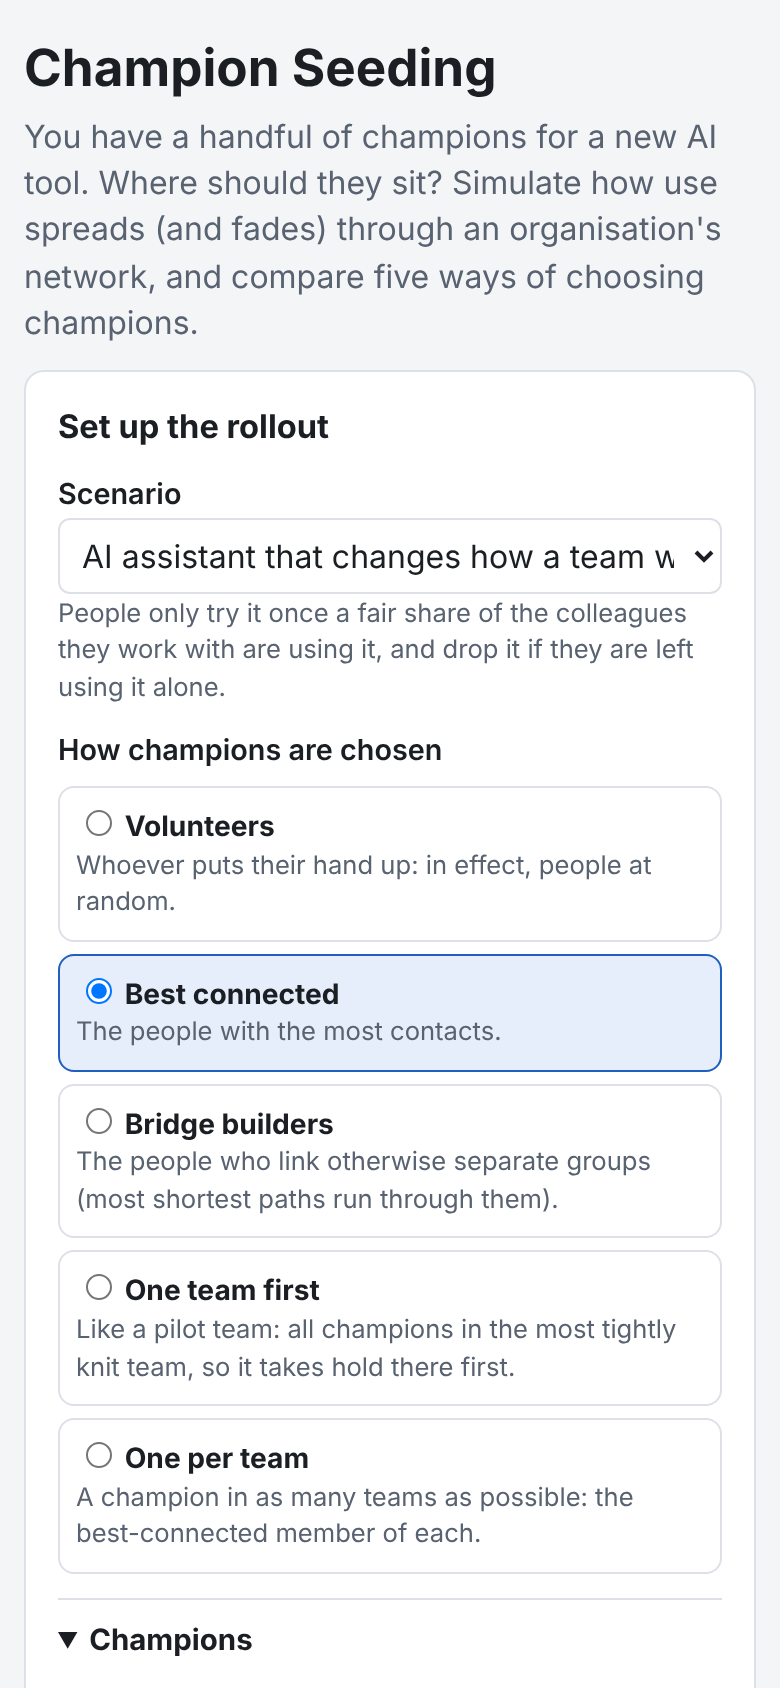
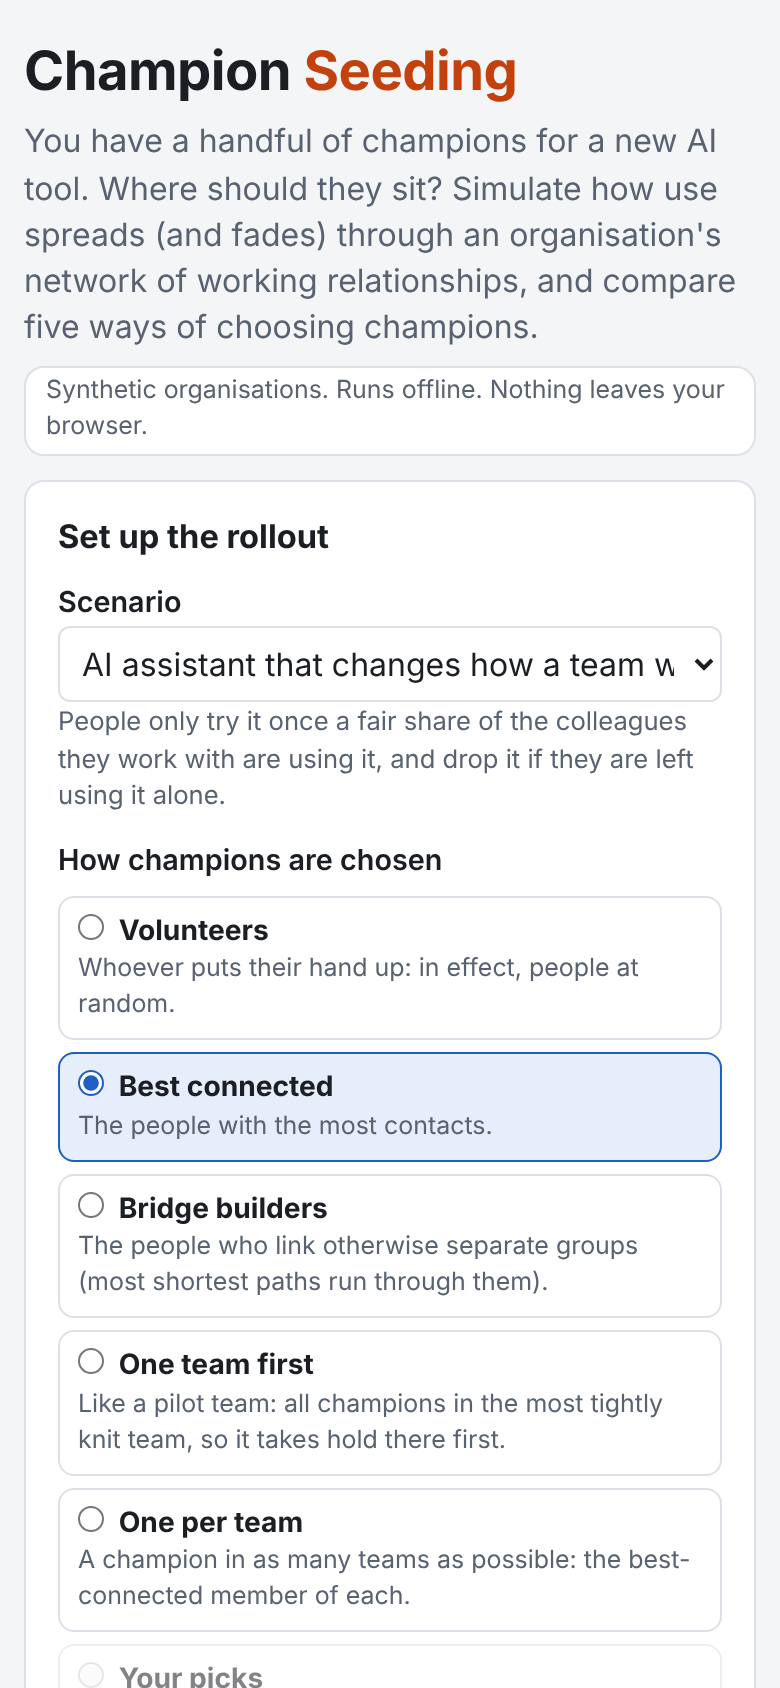
Loop 3: interface polish with sticky controls, fitted network view and team outlines, empty states, phone layouts, error state and model notes

Changed region(s): [[0.0308, 0.0308, 0.9538, 1.0], [0.8923, 0.3081, 0.9231, 0.3389]]

diff --git a/app/index.html b/app/index.html
@@ -22,12 +22,16 @@
   }
   * { box-sizing: border-box; }
   body { margin: 0; font-family: system-ui, -apple-system, "Segoe UI", Roboto, "Helvetica Neue", Arial, sans-serif; background: var(--bg); color: var(--ink); line-height: 1.45; }
-  header { padding: 20px 24px 6px; }
-  header h1 { margin: 0; font-size: 1.6rem; }
+  :focus-visible { outline: 3px solid var(--accent); outline-offset: 2px; }
+  header { padding: 22px 24px 6px; display: flex; flex-wrap: wrap; align-items: flex-end; justify-content: space-between; gap: 8px 24px; }
+  header h1 { margin: 0; font-size: 1.7rem; letter-spacing: -0.01em; }
+  header h1 span { color: var(--champion); }
   header p { margin: 4px 0 0; color: var(--muted); max-width: 72ch; }
+  .chip { font-size: 0.78rem; color: var(--muted); border: 1px solid var(--line); border-radius: 999px; padding: 3px 10px; background: var(--card); white-space: nowrap; }
   .layout { display: grid; grid-template-columns: 330px 1fr; gap: 18px; padding: 12px 24px 24px; align-items: start; }
   .layout > * { min-width: 0; }
   .card { background: var(--card); border: 1px solid var(--line); border-radius: var(--radius); padding: 16px; }
+  .controls { position: sticky; top: 12px; max-height: calc(100vh - 24px); overflow-y: auto; }
   h2 { font-size: 1.02rem; margin: 0 0 8px; }
   .control { margin: 12px 0; }
   .control label { display: flex; justify-content: space-between; gap: 8px; font-size: 0.9rem; font-weight: 600; }
@@ -38,12 +42,16 @@
   fieldset { border: 0; padding: 0; margin: 12px 0; min-width: 0; }
   legend { font-weight: 600; font-size: 0.9rem; margin-bottom: 6px; padding: 0; }
   .strategies { display: grid; gap: 6px; }
-  .strategies label { border: 1px solid var(--line); border-radius: 8px; padding: 8px; font-size: 0.8rem; color: var(--muted); cursor: pointer; display: block; }
+  .strategies label { border: 1px solid var(--line); border-radius: 8px; padding: 7px 9px; font-size: 0.78rem; color: var(--muted); cursor: pointer; display: block; }
+  .strategies input { accent-color: var(--accent); margin: 0 4px 0 0; }
+  .strategies label:has(input:focus-visible) { outline: 3px solid var(--accent); outline-offset: 1px; }
   .strategies strong { color: var(--ink); font-size: 0.88rem; }
   .strategies label:has(input:checked) { border-color: var(--accent); background: var(--accent-soft); }
   details.group { border-top: 1px solid var(--line); margin-top: 10px; padding-top: 10px; }
   summary { cursor: pointer; font-weight: 650; font-size: 0.92rem; }
-  .headline { border-left: 6px solid var(--accent); }
+  .headline { border-left: 6px solid var(--s-spread); }
+  .headline .kicker { font-size: 0.78rem; text-transform: uppercase; letter-spacing: 0.05em; color: var(--muted); margin: 0; }
+  .headline.error { border-left-color: var(--champion); }
   .headline h2 { font-size: 1.35rem; margin: 0 0 4px; }
   .headline p { margin: 4px 0; }
   .why { margin: 8px 0 0; padding-left: 20px; font-size: 0.9rem; }
@@ -51,6 +59,7 @@
   .kpi .label { font-size: 0.82rem; color: var(--muted); }
   .kpi .value { font-size: 1.55rem; font-weight: 700; font-variant-numeric: tabular-nums; }
   .kpi .sub { font-size: 0.8rem; color: var(--muted); }
+  .kpi .value.words { font-size: 1.15rem; padding: 0.2em 0; }
   .chart-card { margin-bottom: 16px; }
   .net-wrap { display: grid; grid-template-columns: minmax(0, 1fr) 220px; gap: 16px; align-items: start; }
   .net { width: 100%; height: auto; display: block; }
@@ -58,6 +67,11 @@
   .legend .key { display: inline-flex; align-items: center; gap: 6px; }
   .legend svg { width: 22px; height: 10px; flex: none; }
   .chart { width: 100%; height: 260px; display: block; }
+  .chart.empty { height: 0; }
+  .empty-note { border: 1px dashed var(--line); border-radius: 8px; padding: 18px; text-align: center; color: var(--muted); font-size: 0.88rem; }
+  .how { font-size: 0.9rem; }
+  .how summary { cursor: pointer; font-weight: 650; }
+  .how li { margin: 4px 0; }
   table.compare { width: 100%; border-collapse: collapse; font-size: 0.88rem; }
   table.compare th, table.compare td { text-align: left; padding: 8px; border-bottom: 1px solid var(--line); }
   table.compare .num { text-align: right; font-variant-numeric: tabular-nums; }
@@ -71,6 +85,7 @@
   .check { display: flex; align-items: center; gap: 6px; font-size: 0.88rem; font-weight: 600; cursor: pointer; }
   .check input { accent-color: var(--accent); width: 17px; height: 17px; margin: 0; }
   input[type=text] { width: 100%; padding: 7px; font: inherit; border-radius: 6px; border: 1px solid var(--line); background: var(--card); color: var(--ink); }
+  #sweep-summary, #robust-summary { font-size: 0.95rem; }
   .status { font-size: 0.82rem; color: var(--muted); min-height: 1.2em; margin: 4px 0 0; }
   .group-title { font-size: 0.78rem; text-transform: uppercase; letter-spacing: 0.05em; color: var(--muted); margin: 18px 0 4px; border-top: 1px solid var(--line); padding-top: 12px; }
   .net.picking circle { cursor: pointer; }
@@ -81,11 +96,14 @@
   footer { padding: 0 24px 32px; color: var(--muted); font-size: 0.85rem; }
   @media (max-width: 900px) {
     .layout { grid-template-columns: 1fr; padding: 8px 12px 24px; }
+    .controls { position: static; max-height: none; overflow: visible; }
+    footer { padding: 0 12px 24px; }
     header { padding: 16px 12px 4px; }
     .kpis { grid-template-columns: 1fr 1fr; }
     .net-wrap { grid-template-columns: 1fr; }
   }
   @media (max-width: 600px) {
+    .chip { white-space: normal; border-radius: 10px; }
     table.compare thead { position: absolute; width: 1px; height: 1px; overflow: hidden; clip: rect(0, 0, 0, 0); }
     table.compare tr { display: block; border-bottom: 1px solid var(--line); padding: 6px 0; }
     table.compare th, table.compare td { display: flex; justify-content: space-between; border: 0; padding: 3px 8px; }
@@ -95,8 +113,11 @@
 </head>
 <body>
 <header>
-  <h1>Champion Seeding</h1>
-  <p>You have a handful of champions for a new AI tool. Where should they sit? Simulate how use spreads (and fades) through an organisation's network, and compare five ways of choosing champions.</p>
+  <div>
+    <h1>Champion <span>Seeding</span></h1>
+    <p>You have a handful of champions for a new AI tool. Where should they sit? Simulate how use spreads (and fades) through an organisation's network of working relationships, and compare five ways of choosing champions.</p>
+  </div>
+  <span class="chip">Synthetic organisations. Runs offline. Nothing leaves your browser.</span>
 </header>
 
 <main class="layout">
@@ -171,7 +192,8 @@
       </div>
       <p id="sweep-summary" role="status"></p>
       <div class="legend" id="sweep-legend"></div>
-      <svg class="chart" id="sweep-chart" role="img" aria-label="What-if chart, not run yet"></svg>
+      <p class="empty-note" id="sweep-empty">Choose a setting and run the what-if to see where the best strategy changes. It takes a few seconds.</p>
+      <svg class="chart empty" id="sweep-chart" role="img" aria-label="What-if chart, not run yet"></svg>
     </div>
     <div class="card chart-card">
       <h2>Does it hold in other organisations?</h2>
@@ -181,15 +203,27 @@
       <table class="compare" id="robust-table"></table>
     </div>
     <div class="card chart-card">
-      <h2>Compare the five strategies</h2>
-      <p class="help">Same organisation, same number of champions, same luck in each simulated rollout. Only where the champions sit changes.</p>
+      <h2>Compare the strategies</h2>
+      <p class="help">Same organisation, same number of champions, same luck in each simulated rollout. Only where the champions sit changes. Ranked by the share using the tool at the end.</p>
       <table class="compare" id="compare"></table>
     </div>
+    <details class="card how">
+      <summary>How the model works</summary>
+      <ul>
+        <li><strong>The organisation.</strong> People are split into teams and teams into departments. Each person has close contacts in their own team, a few in other teams of their department and fewer elsewhere, drawn at random to match the averages you set.</li>
+        <li><strong>Champions</strong> use the tool from day one, never give up, and count as several users in the eyes of their contacts.</li>
+        <li><strong>Trying it.</strong> Each week, a person whose job suits the tool becomes open to it once the share of their contacts using it passes their personal bar (between half and one and a half times the average social proof). Once open, each contact using it gives them a chance to try it. Anyone can also try it unprompted.</li>
+        <li><strong>Dropping it.</strong> Users with no contacts using it drop it at the weekly rate you set; the more of their contacts use it, the less likely they are to stop.</li>
+        <li><strong>Fair comparisons.</strong> Every strategy faces the same organisation and the same weekly luck in each rollout, so differences come from where the champions sit.</li>
+        <li><strong>Strategies.</strong> Best connected picks the most contacts. Bridge builders picks the highest betweenness (how many shortest paths between others run through a person). One team first fills the most tightly knit team, then the next. One per team takes the best-connected person in each team, most tightly knit teams first.</li>
+      </ul>
+      <p class="help">All numbers are illustrative. The model shows how network structure and social proof interact; it is not calibrated to any real organisation.</p>
+    </details>
   </section>
 </main>
 
 <footer>
-  <p>Synthetic organisations, generated in your browser. Nothing is sent anywhere. The model is a thinking tool built on stated assumptions, not a forecast.</p>
+  <p>Champion Seeding is a thinking tool built on stated assumptions, not a forecast. Every organisation in it is synthetic and generated in your browser.</p>
 </footer>
 
 <script>
@@ -966,8 +1000,17 @@ if (typeof module !== 'undefined' && module.exports) module.exports = SeedingMod
     var busy = setTimeout(function () { if (my === token) box.classList.add('busy'); }, 150);
     function step() {
       if (my !== token) { clearTimeout(busy); return; }
-      if (!net) net = M.buildNetwork(p);
-      else { results.push(M.runStrategy(net, p, keys[i])); i++; }
+      try {
+        if (!net) net = M.buildNetwork(p);
+        else { results.push(M.runStrategy(net, p, keys[i])); i++; }
+      } catch (e) {
+        clearTimeout(busy);
+        box.classList.remove('busy');
+        var head = document.getElementById('headline');
+        head.className = 'card headline error';
+        head.textContent = 'Something went wrong while running the simulation: ' + e.message + '. Try another scenario, or reload the page.';
+        return;
+      }
       if (i < keys.length) { setTimeout(step, 0); return; }
       clearTimeout(busy);
       box.classList.remove('busy');
@@ -979,7 +1022,9 @@ if (typeof module !== 'undefined' && module.exports) module.exports = SeedingMod
       }
       lastCode = M.encodeParams(p);
       try { history.replaceState(null, '', '#' + lastCode); } catch (e) { /* some browsers block this for local files */ }
-      current = { p: p, net: net, layout: layout(net, p), cmp: { params: p, network: M.summariseNetwork(net), results: results,
+      var lay = layout(net, p);
+      document.getElementById('net').setAttribute('viewBox', lay.view);
+      current = { p: p, net: net, layout: lay.pos, teamCircles: lay.circles, cmp: { params: p, network: M.summariseNetwork(net), results: results,
         ranking: M.rankStrategies(results).map(function (r) { return r.strategy; }) } };
       var week = document.getElementById('week');
       week.max = p.weeks;
@@ -1012,7 +1057,9 @@ if (typeof module !== 'undefined' && module.exports) module.exports = SeedingMod
 
   function renderHeadline(r) {
     var box = document.getElementById('headline'), cmp = current.cmp;
+    box.className = 'card headline';
     box.innerHTML = '';
+    box.appendChild(el('p', { 'class': 'kicker' }, 'Showing: ' + M.STRATEGIES[r.strategy].label));
     var best = cmp.ranking[0], bestR = resultFor(best), mine = M.STRATEGIES[r.strategy].label, isCustom = r.strategy === 'custom';
     var title;
     if (best === r.strategy) title = isCustom ? 'Your picks are the best choice here' : mine + ' is the best strategy here';
@@ -1027,7 +1074,7 @@ if (typeof module !== 'undefined' && module.exports) module.exports = SeedingMod
   function kpi(label, value, sub) {
     var d = el('div', { 'class': 'card kpi' });
     d.appendChild(el('div', { 'class': 'label' }, label));
-    d.appendChild(el('div', { 'class': 'value' }, value));
+    d.appendChild(el('div', { 'class': /^[0-9.]/.test(value) ? 'value' : 'value words' }, value));
     d.appendChild(el('div', { 'class': 'sub' }, sub));
     return d;
   }
@@ -1048,7 +1095,9 @@ if (typeof module !== 'undefined' && module.exports) module.exports = SeedingMod
     for (var d = 0; d < D; d++) teamsByDept.push([]);
     for (t = 0; t < T; t++) teamsByDept[t % D].push(t);
     var centres = [];
-    var deptR = D > 1 ? 185 : 0;
+    var most = 0;
+    teamsByDept.forEach(function (list) { most = Math.max(most, list.length); });
+    var deptR = D > 1 ? 150 + 25 * most : 0;
     for (d = 0; d < D; d++) {
       var da = 2 * Math.PI * d / D - Math.PI / 2;
       var dx = cx + deptR * Math.cos(da), dy = cy + deptR * Math.sin(da);
@@ -1061,13 +1110,19 @@ if (typeof module !== 'undefined' && module.exports) module.exports = SeedingMod
     }
     var seen = [];
     for (t = 0; t < T; t++) seen.push(0);
+    var circles = [];
+    for (t = 0; t < T; t++) circles.push([centres[t][0], centres[t][1], 5 + 4.4 * Math.sqrt(net.teamSize[t]) + 8]);
     for (i = 0; i < net.size; i++) {
       var tm = net.team[i], n = net.teamSize[tm], k = seen[tm]++;
-      var r = 5 + 2.2 * Math.sqrt(n) * 2;
+      var r = 5 + 4.4 * Math.sqrt(n);
       var a = 2 * Math.PI * k / n;
       pos.push([centres[tm][0] + r * Math.cos(a), centres[tm][1] + r * Math.sin(a)]);
     }
-    return pos;
+    // Fit the drawing to its contents so there is no empty band around it.
+    var x0 = Infinity, y0 = Infinity, x1 = -Infinity, y1 = -Infinity;
+    circles.forEach(function (c) { x0 = Math.min(x0, c[0] - c[2]); y0 = Math.min(y0, c[1] - c[2]); x1 = Math.max(x1, c[0] + c[2]); y1 = Math.max(y1, c[1] + c[2]); });
+    var view = [x0 - 6, y0 - 6, x1 - x0 + 12, y1 - y0 + 12].map(function (v) { return v.toFixed(1); }).join(' ');
+    return { pos: pos, circles: circles, view: view };
   }
 
   function renderNetwork() {
@@ -1081,6 +1136,9 @@ if (typeof module !== 'undefined' && module.exports) module.exports = SeedingMod
     for (var i = 0; i < net.size; i++) everSoFar.push(0);
     for (var w = 0; w <= week; w++) for (i = 0; i < net.size; i++) if (current.sample.states[w][i]) everSoFar[i] = 1;
     selected().champions.forEach(function (c) { champs[c] = true; });
+    current.teamCircles.forEach(function (c) {
+      svg.appendChild(svgEl('circle', { cx: c[0].toFixed(1), cy: c[1].toFixed(1), r: c[2].toFixed(1), fill: 'var(--accent-soft)', 'fill-opacity': 0.55, stroke: 'none' }));
+    });
     for (i = 0; i < net.size; i++) {
       net.adj[i].forEach(function (j) {
         if (j > i) svg.appendChild(svgEl('line', { x1: pos[i][0].toFixed(1), y1: pos[i][1].toFixed(1), x2: pos[j][0].toFixed(1), y2: pos[j][1].toFixed(1), stroke: 'var(--edge)', 'stroke-width': 0.8 }));
@@ -1103,10 +1161,12 @@ if (typeof module !== 'undefined' && module.exports) module.exports = SeedingMod
     document.getElementById('net-note').textContent = 'Week ' + week + ': ' + using + ' of ' + net.size + ' people using it. This is one sample rollout; the numbers above average ' + current.p.runs + '.';
     var legend = document.getElementById('net-legend');
     legend.innerHTML = '';
-    [['Champion', 'var(--champion)'], ['Using it', 'var(--user)'], ['Tried, then dropped it', 'var(--lapsed)'], ['Not yet', 'var(--never)']].forEach(function (k) {
+    var keys = [['Champion', 'var(--champion)'], ['Using it', 'var(--user)'], ['Tried, then dropped it', 'var(--lapsed)'], ['Not yet', 'var(--never)']];
+    if ((current.p.custom || []).length) keys.push(['Your pick', 'none']);
+    keys.forEach(function (k) {
       var key = el('span', { 'class': 'key' });
       var s = svgEl('svg', { viewBox: '0 0 10 10', 'aria-hidden': 'true' });
-      s.appendChild(svgEl('circle', { cx: 5, cy: 5, r: 4.5, fill: k[1] }));
+      s.appendChild(svgEl('circle', { cx: 5, cy: 5, r: 3.8, fill: k[1] === 'none' ? 'var(--never)' : k[1], stroke: k[1] === 'none' ? 'var(--ink)' : 'none', 'stroke-width': 1.6 }));
       key.appendChild(s);
       key.appendChild(document.createTextNode(k[0]));
       legend.appendChild(key);
@@ -1133,7 +1193,7 @@ if (typeof module !== 'undefined' && module.exports) module.exports = SeedingMod
 
   function renderCurve(r) {
     var svg = document.getElementById('curve'), p = current.p;
-    var W = svg.clientWidth || 640, H = svg.clientHeight || 260, m = { l: 40, r: 12, t: 10, b: 30 };
+    var W = svg.clientWidth || 640, H = svg.clientHeight || 260, m = { l: 40, r: 12, t: 10, b: 34 };
     svg.setAttribute('viewBox', '0 0 ' + W + ' ' + H);
     while (svg.firstChild) svg.removeChild(svg.firstChild);
     var x = function (v) { return m.l + (W - m.l - m.r) * v / p.weeks; };
@@ -1149,6 +1209,9 @@ if (typeof module !== 'undefined' && module.exports) module.exports = SeedingMod
       tx.textContent = String(wk);
       svg.appendChild(tx);
     }
+    var cap = svgEl('text', { x: W - m.r, y: H - 2, 'text-anchor': 'end', 'font-size': 11, fill: 'var(--muted)' });
+    cap.textContent = 'Weeks';
+    svg.appendChild(cap);
     var band = r.curveHigh.map(function (v, i) { return x(i).toFixed(1) + ',' + y(v).toFixed(1); })
       .concat(r.curveLow.map(function (v, i) { return [i, v]; }).reverse().map(function (q) { return x(q[0]).toFixed(1) + ',' + y(q[1]).toFixed(1); }));
     svg.appendChild(svgEl('polygon', { points: band.join(' '), fill: 'var(--s-' + r.strategy + ')', 'fill-opacity': 0.15 }));
@@ -1221,6 +1284,8 @@ if (typeof module !== 'undefined' && module.exports) module.exports = SeedingMod
     var legend = document.getElementById('sweep-legend');
     while (svg.firstChild) svg.removeChild(svg.firstChild);
     legend.innerHTML = '';
+    svg.classList.toggle('empty', !sweepState);
+    document.getElementById('sweep-empty').hidden = !!sweepState;
     if (!sweepState) return;
     var sw = sweepState.sweep, spec = specFor(sw.key), pts = sw.points;
     var spans = M.winnerSpans(sw);
@@ -1416,6 +1481,9 @@ if (typeof module !== 'undefined' && module.exports) module.exports = SeedingMod
 
   buildControls();
   buildSaveControls();
+  if (window.matchMedia && window.matchMedia('(max-width: 900px)').matches) {
+    document.querySelectorAll('details.group').forEach(function (d) { d.open = false; });
+  }
   if (location.hash.length > 1) {
     state.params = M.decodeParams(location.hash);
     state.preset = matchPreset(state.params);

diff --git a/tools/screenshots.py b/tools/screenshots.py
@@ -18,6 +18,20 @@ def main():
         page.wait_for_selector("#headline h2")
         page.wait_for_timeout(400)
         page.screenshot(path=str(OUT / "desktop.png"))
+        # Second view: the what-if sweep and the test in other organisations.
+        page.click("#sweep-run")
+        page.wait_for_function("document.getElementById('sweep-summary').textContent.includes('wins')", timeout=60000)
+        page.click("#robust-run")
+        page.wait_for_function("document.getElementById('robust-summary').textContent.includes('was best in')", timeout=60000)
+        height = page.evaluate("document.documentElement.scrollHeight")
+        page.set_viewport_size({"width": 1280, "height": height})
+        page.wait_for_timeout(400)
+        box = page.evaluate("""() => {
+            const top = document.getElementById('sweep-chart').closest('.card').getBoundingClientRect();
+            const end = document.getElementById('robust-table').closest('.card').getBoundingClientRect();
+            return { x: top.left - 8, y: top.top + window.scrollY - 8, width: top.width + 16, height: end.bottom - top.top + 16 };
+        }""")
+        page.screenshot(path=str(OUT / "what-if.png"), clip=box)
         page.close()
         phone = browser.new_page(viewport={"width": 390, "height": 844}, device_scale_factor=2)
         phone.goto(APP)

diff --git a/champion_seeding/cli.py b/champion_seeding/cli.py
@@ -113,7 +113,7 @@ def fmt_value(key, v):
 def format_sweep(sw):
     key = sw["key"]
     lines = ["What if %s changes? Share using the tool at the end, by strategy (* marks the best)" % model.PARAM_LABELS[key].lower(), "",
-             "  %-10s" % model.PARAM_LABELS[key][:10] + "".join("%16s" % model.STRATEGY_LABELS[s] for s in model.STRATEGY_KEYS)]
+             "  %-10s" % "Value" + "".join("%16s" % model.STRATEGY_LABELS[s] for s in model.STRATEGY_KEYS)]
     for pt in sw["points"]:
         cells = []
         for r in pt["results"]:
